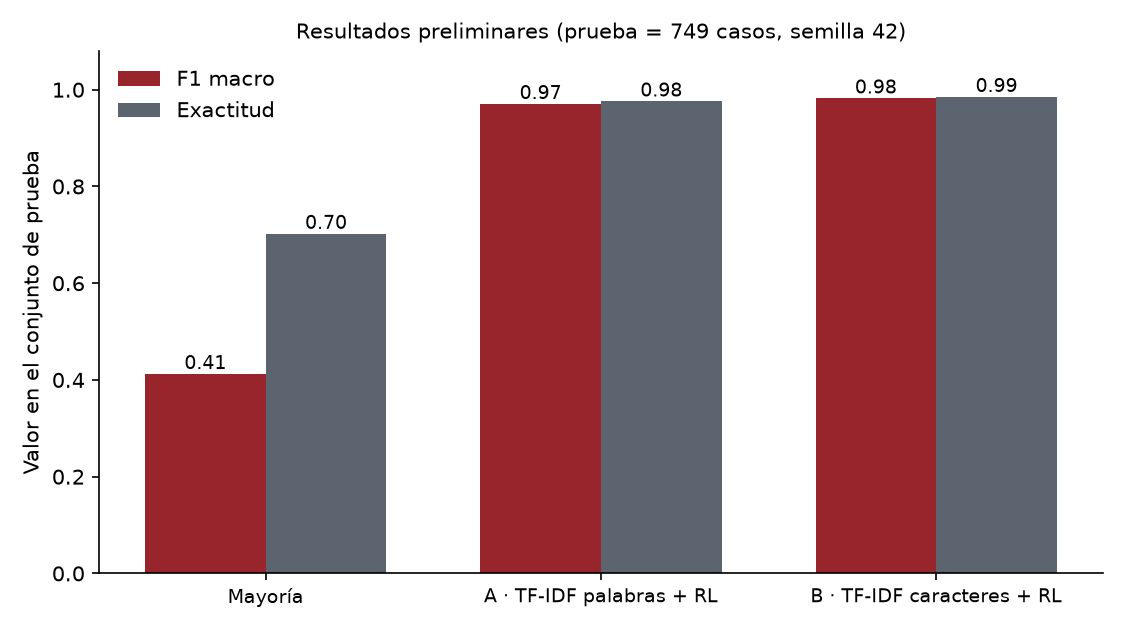
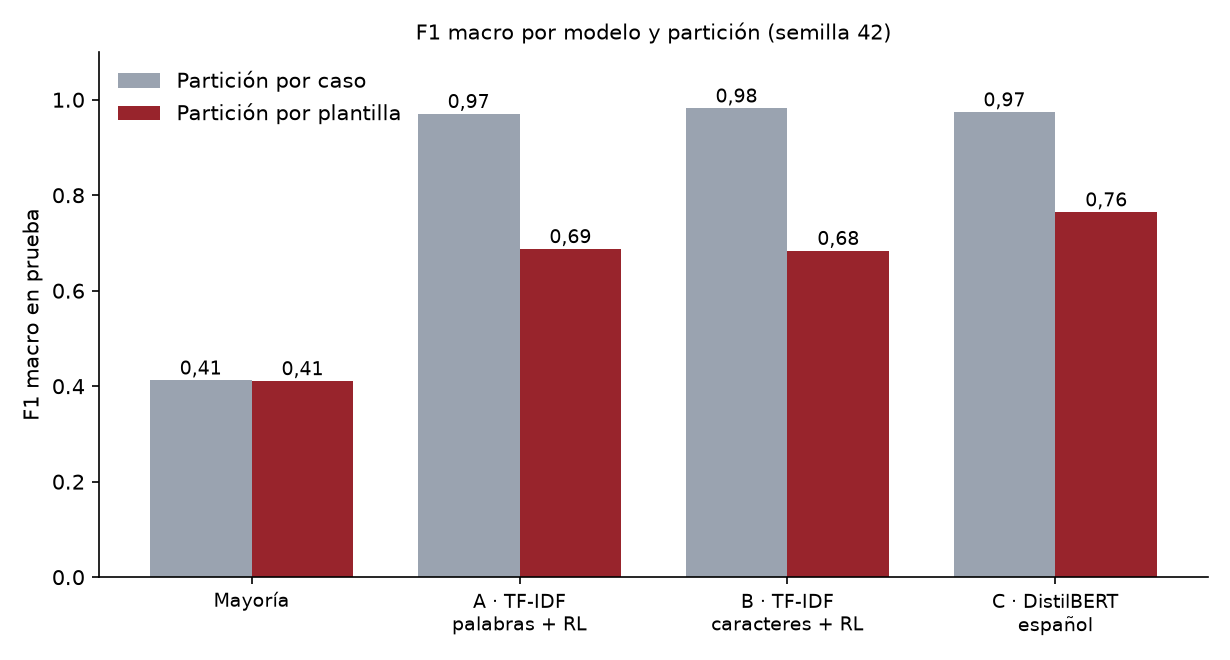
ia2: grafico comparativo de los cuatro modelos en las dos particiones
Claude-Session: https://claude.ai/code/session_01UTYVhnAUbvfA2aNm6oahAU

diff --git a/research/ia2/graficos.py b/research/ia2/graficos.py
@@ -1,0 +1,56 @@
+# -*- coding: utf-8 -*-
+"""Grafico comparativo de los cuatro modelos en las dos particiones (F1 macro).
+
+Lee resultados/resultados.json (clasicos) y resultados/transformer.json y escribe
+resultados/metricas.png. Sin red, sin modelos: solo dibuja lo ya medido.
+"""
+from __future__ import annotations
+
+import json
+import sys
+from pathlib import Path
+
+import matplotlib
+
+matplotlib.use("Agg")
+import matplotlib.pyplot as plt
+import numpy as np
+
+
+def main() -> int:
+    carpeta = Path(sys.argv[1] if len(sys.argv) > 1 else Path(__file__).resolve().parent / "resultados")
+    r = json.loads((carpeta / "resultados.json").read_text(encoding="utf-8"))
+    t_ruta = carpeta / "transformer.json"
+    t = json.loads(t_ruta.read_text(encoding="utf-8")) if t_ruta.exists() else None
+
+    nombres = ["Mayoría", "A · TF-IDF\npalabras + RL", "B · TF-IDF\ncaracteres + RL"]
+    caso = [r["0_mayoria"]["f1_macro"], r["A_tfidf_palabras_lr"]["f1_macro"], r["B_tfidf_caracteres_lr"]["f1_macro"]]
+    pp = r["particion_por_plantilla"]
+    plantilla = [pp["0_mayoria"]["f1_macro"], pp["A_tfidf_palabras_lr"]["f1_macro"], pp["B_tfidf_caracteres_lr"]["f1_macro"]]
+    if t and "por_caso" in t["particiones"] and "por_plantilla" in t["particiones"]:
+        nombres.append("C · DistilBERT\nespañol")
+        caso.append(t["particiones"]["por_caso"]["f1_macro"])
+        plantilla.append(t["particiones"]["por_plantilla"]["f1_macro"])
+
+    xs = np.arange(len(nombres))
+    fig, ax = plt.subplots(figsize=(8.2, 4.4), dpi=150)
+    b1 = ax.bar(xs - 0.19, caso, width=0.38, label="Partición por caso", color="#9aa3b0")
+    b2 = ax.bar(xs + 0.19, plantilla, width=0.38, label="Partición por plantilla", color="#98242c")
+    for b in list(b1) + list(b2):
+        ax.text(b.get_x() + b.get_width() / 2, b.get_height() + 0.012, f"{b.get_height():.2f}".replace(".", ","),
+                ha="center", fontsize=9)
+    ax.set_xticks(xs, nombres, fontsize=9)
+    ax.set_ylim(0, 1.1)
+    ax.set_ylabel("F1 macro en prueba")
+    ax.set_title("F1 macro por modelo y partición (semilla 42)", fontsize=10)
+    ax.legend(frameon=False, loc="upper left")
+    for s in ("top", "right"):
+        ax.spines[s].set_visible(False)
+    fig.tight_layout()
+    fig.savefig(carpeta / "metricas.png")
+    print("escrito:", carpeta / "metricas.png", "| modelos:", len(nombres))
+    return 0
+
+
+if __name__ == "__main__":
+    sys.exit(main())
